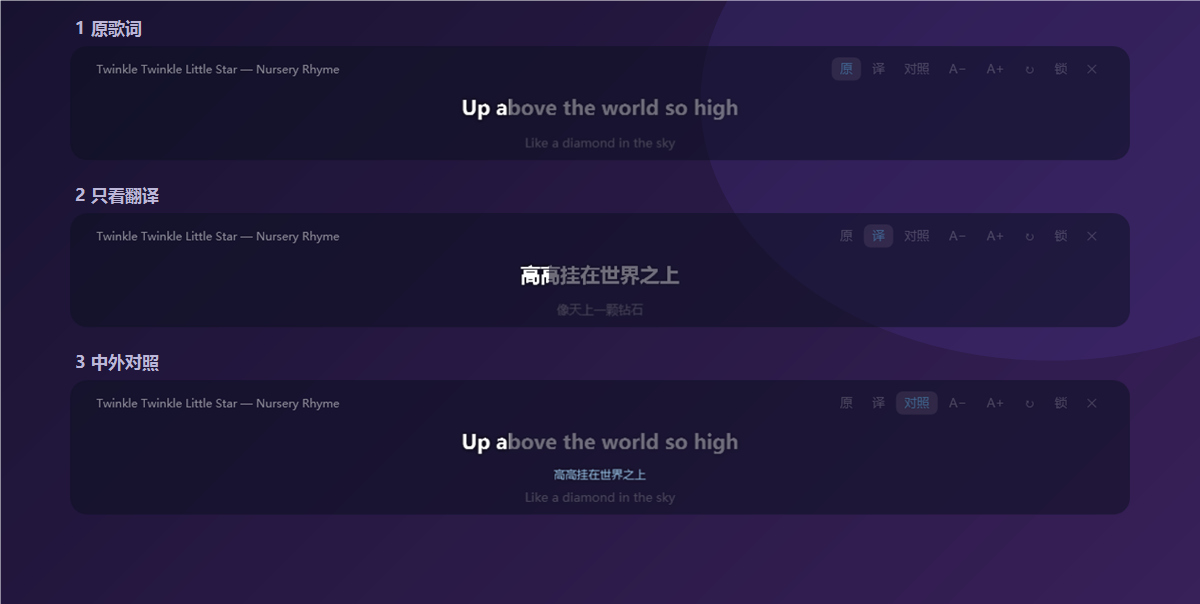
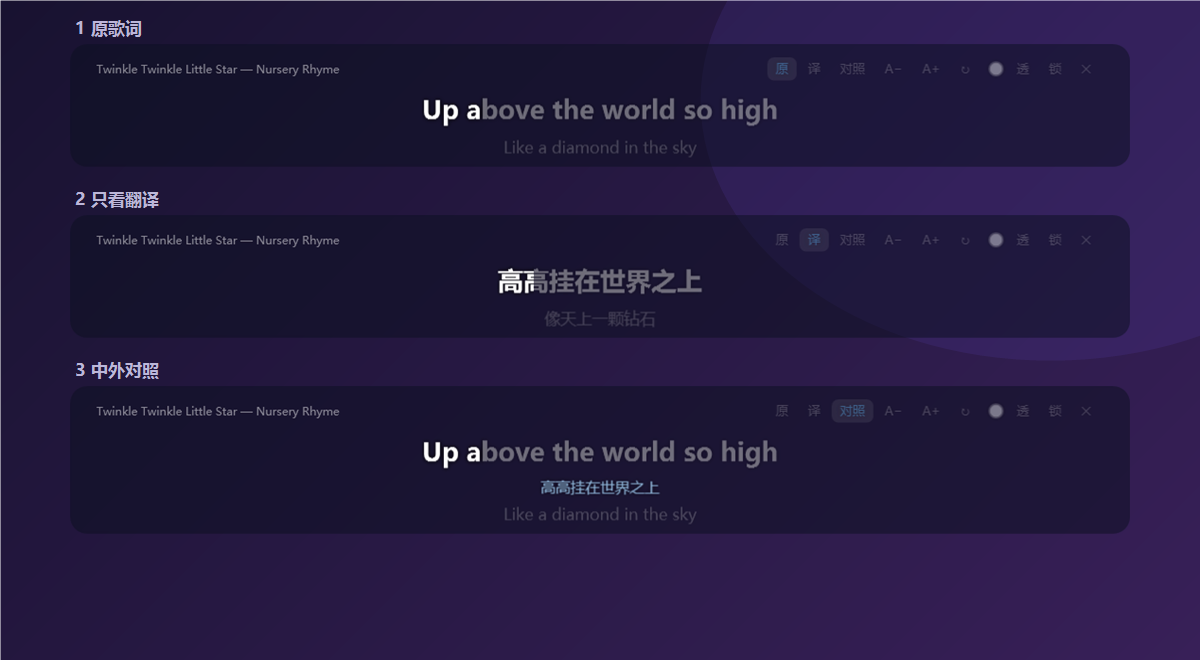
Add files via upload

diff --git a/README.md b/README.md
@@ -27,6 +27,7 @@
 | **译** | 只显示中文翻译（没有翻译时退回原文并提示） |
 | **对照** | 原文 + 译文对照（默认） |
 | **A− / A+** | 缩小 / 放大字号（鼠标滚轮也行） |
+| **圆点** | 换歌词颜色，点开有 8 个色块 |
 | **↻** | 丢弃缓存，重新抓这首歌的歌词 |
 | **透** | 底板透明度循环切换：无 / 淡 / 中 / 深（「无」= 纯文字，直接透出壁纸） |
 | **锁** | 锁定：整条歌词变成鼠标穿透，不挡你点桌面 |
